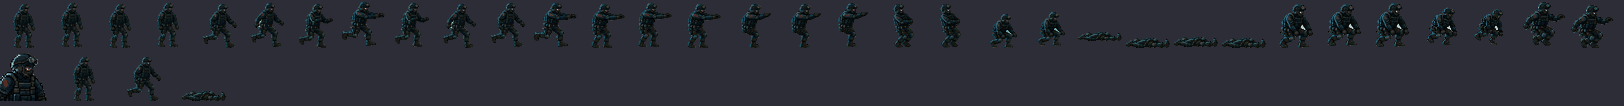
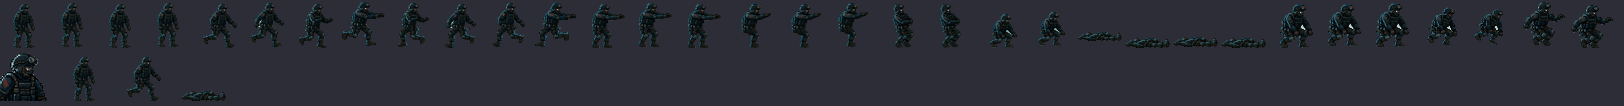
wp7-gait-8pose: wp7 路线 A 完成：run 条带从「4 源姿势+位移回文变体」升级为 8 个可辨识姿势——tools/gen_ai_sprites.py 新增 mirror_legs()（仅水平翻转髋线 y=28 以下的腿带、躯干/手臂保持原朝向，且镜像轴取腿带不透明像素 x 重心而非帧中心，保证前倾躯干下大腿根连接自然），run 拼帧改为前半程 ra..rd 原腿、后半程同节奏镜像腿（m(rc)/m(rb)/m(ra)/m(rd)），重跑管线重生成 6 角色 {char}_run.png 与预览图；整帧翻转方案因侧视条带朝向由游戏端 flip_h 统一控制（player.

Changed region(s): [[0.2463, 0.283, 0.3695, 0.4528]]

diff --git a/tools/gen_ai_sprites.py b/tools/gen_ai_sprites.py
@@ -321,6 +321,32 @@ def shift(img: Image.Image, dy: int = 0, dx: int = 0, squash: float = 1.0) -> Im
     return out
 
 
+def mirror_legs(img: Image.Image, hip_y: int = 28) -> Image.Image:
+    """镜像腿变体（wp7 路线 A）：仅水平翻转髋线以下的腿带，躯干/手臂保持原朝向。
+
+    侧视条带的朝向由游戏端 flip_h 统一控制（player.gd sprite.flip_h），
+    整帧翻转会让条带内朝向左右乱跳；只翻腿带可安全交换前后腿站位，
+    把 4 源姿势扩成 8 个可辨识步态帧。
+    镜像轴取腿带不透明像素的 x 重心而非帧中心：躯干前倾时髋部重心偏前，
+    绕重心反射使大腿根（近轴处）几乎不动、两脚（远端）互换站位，
+    避免绕帧中心镜像造成的「大腿留在原位 + 小腿甩开」四腿撕裂感。
+    """
+    a = np.asarray(img).copy()
+    hip_y = min(max(0, hip_y), a.shape[0])
+    band = a[hip_y:, :, :]
+    ys, xs = np.nonzero(band[:, :, 3] > 10)
+    if len(xs) == 0:
+        return img.copy()
+    cx = float(xs.mean())
+    w = band.shape[1]
+    src = np.round(2 * cx - np.arange(w)).astype(int)
+    valid = (src >= 0) & (src < w)
+    out = np.zeros_like(band)
+    out[:, valid, :] = band[:, src[valid], :]
+    a[hip_y:, :, :] = out
+    return Image.fromarray(a)
+
+
 def rot(img: Image.Image, deg: float) -> Image.Image:
     return img.rotate(deg, resample=Image.NEAREST, expand=True)
 
@@ -358,10 +384,13 @@ def assemble(poses: dict[str, Image.Image]) -> dict[str, Image.Image]:
 
     # P1-6：idle 4 帧呼吸（胸腔/头部微动）
     strips["idle"] = strip([idle, shift(idle, dy=-1), idle, shift(idle, dy=-1)])
-    # P1-6：8 帧完整步态循环（触地→蹬伸→腾空→落地，左右腿交替 + 躯干起伏）
+    # P1-6 / wp7 路线 A：8 帧完整步态循环（触地→蹬伸→腾空→落地，左右腿交替 + 躯干起伏）。
+    # 前半程 ra..rd 原腿，后半程同节奏换镜像腿（mirror_legs 只翻髋线下腿带），
+    # 8 帧两两不全等；AI 真 8 姿势源图放入 tools/ai_src/ 登记 POSE_KEYS 后即可无损替换。
     strips["run"] = strip([
         ra, shift(rb, dy=-1), rc, shift(rd, dy=-2),
-        shift(rc, dy=-1), rb, shift(ra, dy=-1), shift(rd, dy=-1),
+        shift(mirror_legs(rc), dy=-1), mirror_legs(rb),
+        shift(mirror_legs(ra), dy=-1), shift(mirror_legs(rd), dy=-1),
     ])
     strips["shoot"] = strip([shoot, shift(shoot, dx=-1, dy=-1), shoot])
     strips["melee"] = strip([melee, shift(melee, dx=2), shift(melee, dx=1, dy=-1)])
